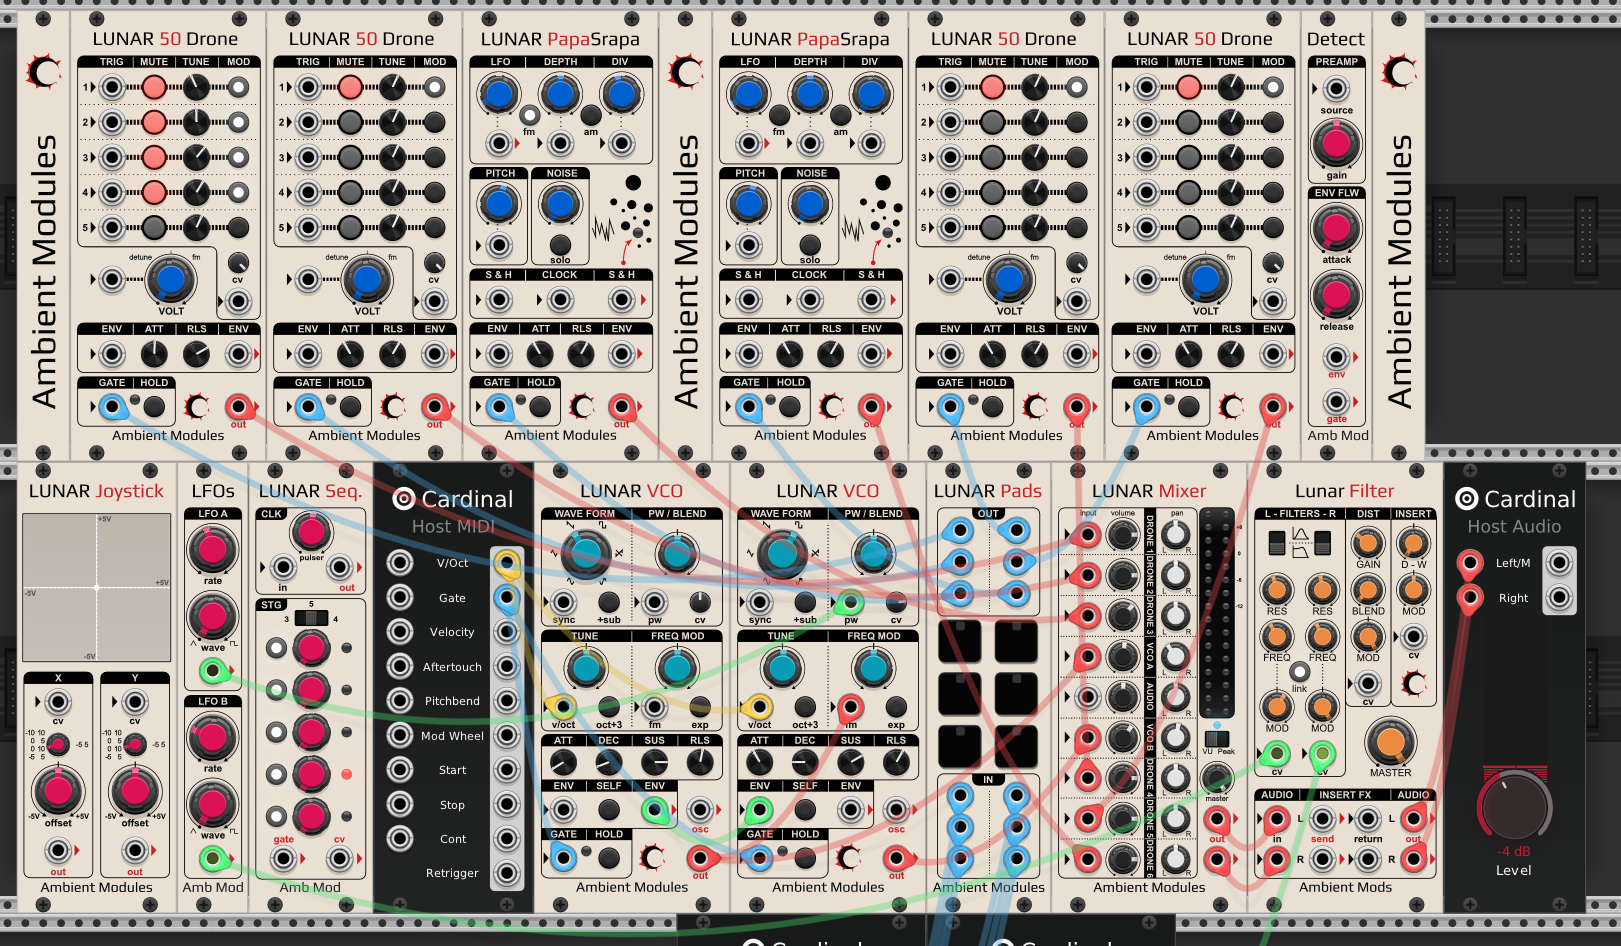
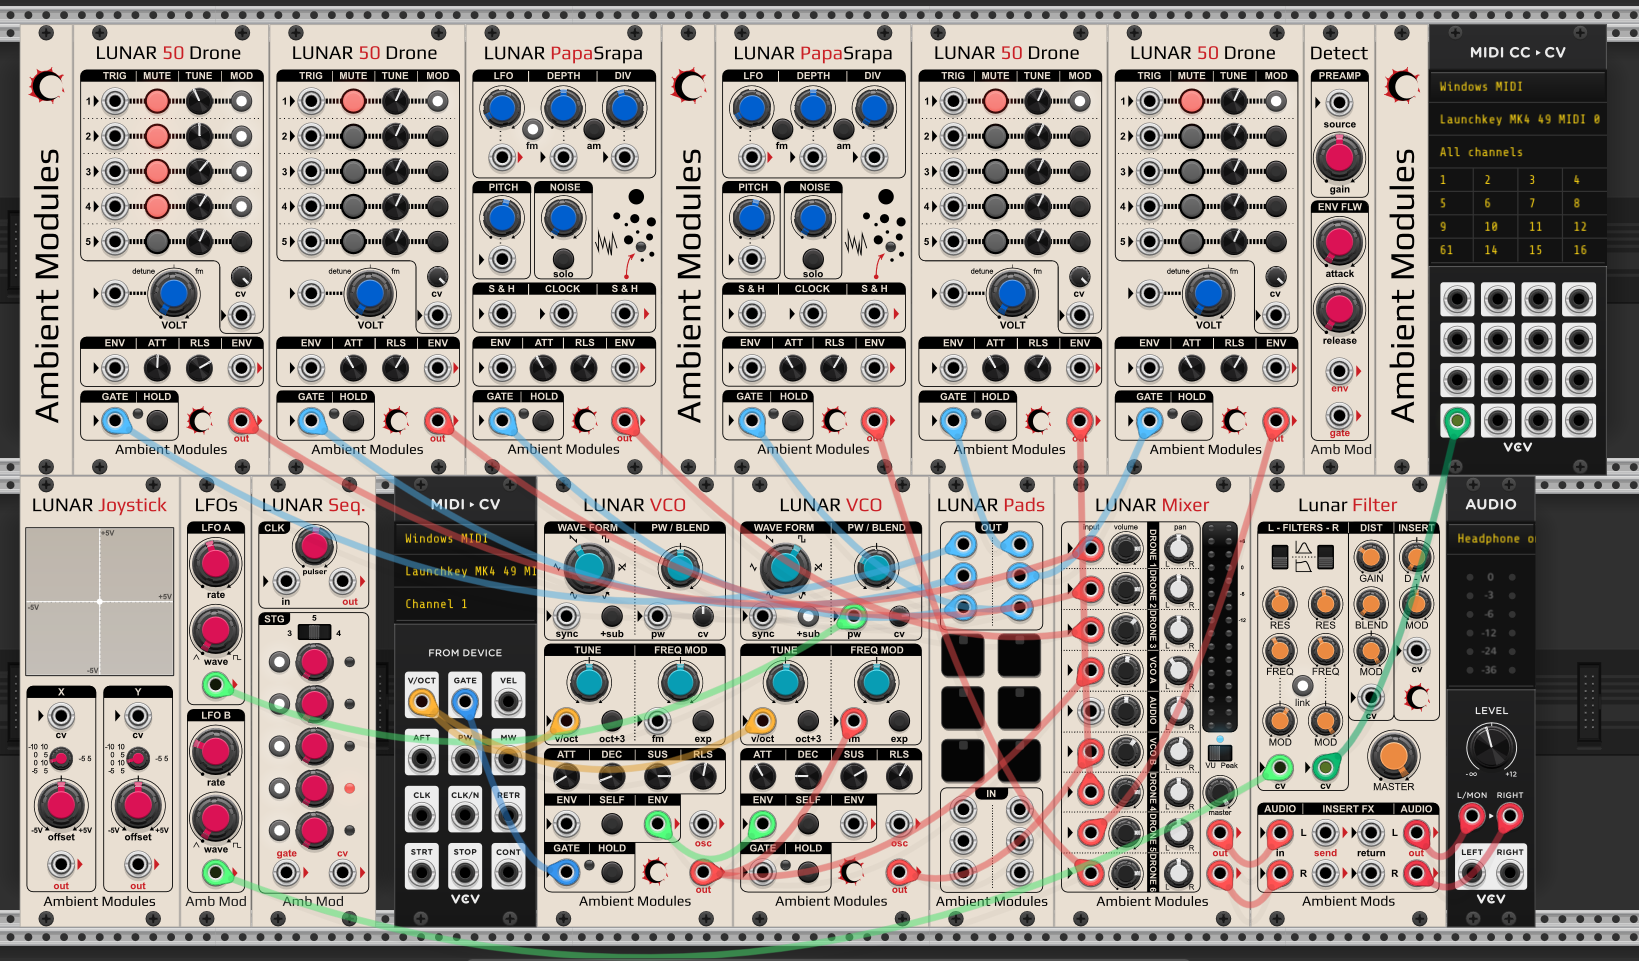
docs: switch Solar42-patch.vcv to Rack's own core MIDI/Audio modules
Re-saved using Core's MIDIToCVInterface/AudioInterface2/MIDICCToCVInterface
instead of Cardinal's Host MIDI/Audio modules, so the patch now opens in
standalone VCV Rack as well as Cardinal (a Cardinal Host-module patch only
opens back in Cardinal). Updates the README description and screenshot.

diff --git a/README.md b/README.md
@@ -46,7 +46,7 @@
 
 ![Solar42-patch.vcv](docs/images/Solar42-Patch.png)
 
-[**Solar42-patch.vcv**](patches/Solar42-patch.vcv) — a full-rack patch reassembling the SOLAR 42F's own architecture out of these modules: 4× Lunar50Drone (Drone 1/2/4/5, Oscillator mix set to *Fixed sum / 5 (legacy)* to match the real hardware's mixing) and 2× LunarPapaSrapa (Drone 3/6) gated from LunarPads, 2× LunarVCO (VCO A/B, cross-modulating each other's FM and both driven from the same MIDI keyboard), all summed through LunarMixer and into LunarFilter (Filter L's cutoff modulated by a LunarLFO, Filter R's by a MIDI CC) before Cardinal's HostAudio2 output, plus LunarSequencer/LunarLFO/LunarJoystick for modulation and an unpatched LunarDetector included alongside for reference. Uses Cardinal's HostMIDI/HostAudio2 for keyboard input and audio output, so it's meant to be opened in Cardinal rather than standalone VCV Rack (drag the file onto the Cardinal window, or File → Open).
+[**Solar42-patch.vcv**](patches/Solar42-patch.vcv) — a full-rack patch reassembling the SOLAR 42F's own architecture out of these modules: 4× Lunar50Drone (Drone 1/2/4/5, Oscillator mix set to *Fixed sum / 5 (legacy)* to match the real hardware's mixing) and 2× LunarPapaSrapa (Drone 3/6) gated from LunarPads, 2× LunarVCO (VCO A/B, cross-modulating each other's FM and both driven from the same MIDI keyboard), all summed through LunarMixer and into LunarFilter (Filter L's cutoff modulated by a LunarLFO, Filter R's by a MIDI CC) before audio output, plus LunarSequencer/LunarLFO/LunarJoystick for modulation and an unpatched LunarDetector included alongside for reference. Uses Rack's own core MIDI-CV/Audio modules (not Cardinal-specific ones), so it opens equally well in standalone VCV Rack or in Cardinal (drag the file onto the window, or File → Open) — a patch saved from Cardinal using its own Host MIDI/Audio modules would only open back in Cardinal, not standalone Rack.
 
 ## Panel themes
 
